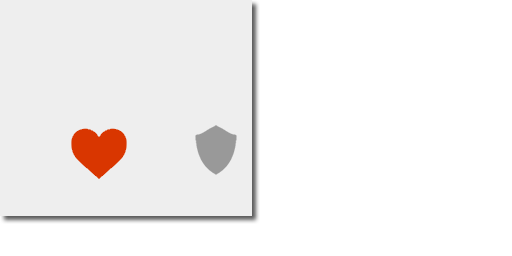
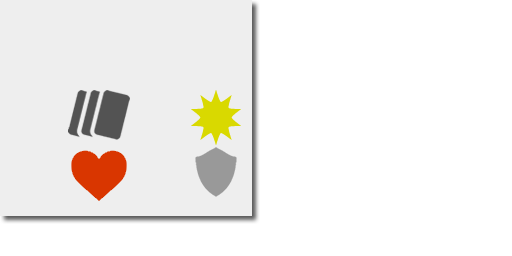
Added deck size and surprise level to player cards

Changed region(s): [[0.125, 0.3438, 0.25, 0.7812], [0.375, 0.3438, 0.4688, 0.7812]]

diff --git a/src/com/benjih/ld32/core/UserInterface.java b/src/com/benjih/ld32/core/UserInterface.java
@@ -105,13 +105,17 @@ public class UserInterface {
 	public void drawScoreCards(Player player, Player enemy) {
 		new Image(0, 199, resources.getTexture("player-card"), 1.0f).render();
 		playerCardNameFont.drawString(15, 219, "Computer", new Color(83, 83, 83));
-		playerCardNameFont.drawString(55, 325, String.valueOf(enemy.getHealth()), new Color(217, 54, 0), TrueTypeFont.ALIGN_RIGHT);
-		playerCardNameFont.drawString(180, 325, String.valueOf(enemy.getArmour()), new Color(153, 153, 153), TrueTypeFont.ALIGN_RIGHT);
+		playerCardNameFont.drawString(55, 284, String.valueOf(enemy.getDeck().size()), new Color(83, 83, 83), TrueTypeFont.ALIGN_RIGHT);
+		playerCardNameFont.drawString(170, 284, String.valueOf(enemy.getSuprise()), new Color(217, 217, 0), TrueTypeFont.ALIGN_CENTER);
+		playerCardNameFont.drawString(55, 345, String.valueOf(enemy.getHealth()), new Color(217, 54, 0), TrueTypeFont.ALIGN_RIGHT);
+		playerCardNameFont.drawString(170, 345, String.valueOf(enemy.getArmour()), new Color(153, 153, 153), TrueTypeFont.ALIGN_CENTER);
 		
 		new Image(0, 648, resources.getTexture("player-card"), 1.0f).render();
 		playerCardNameFont.drawString(15, 668, "You", new Color(83, 83, 83));
-		playerCardNameFont.drawString(55, 775, String.valueOf(player.getHealth()), new Color(217, 54, 54), TrueTypeFont.ALIGN_RIGHT);
-		playerCardNameFont.drawString(180, 775, String.valueOf(player.getArmour()), new Color(153, 153, 153), TrueTypeFont.ALIGN_RIGHT);
+		playerCardNameFont.drawString(55, 733, String.valueOf(player.getDeck().size()), new Color(83, 83, 83), TrueTypeFont.ALIGN_RIGHT);
+		playerCardNameFont.drawString(170, 733, String.valueOf(player.getSuprise()), new Color(217, 217, 0), TrueTypeFont.ALIGN_CENTER);
+		playerCardNameFont.drawString(55, 794, String.valueOf(player.getHealth()), new Color(217, 54, 0), TrueTypeFont.ALIGN_RIGHT);
+		playerCardNameFont.drawString(170, 794, String.valueOf(player.getArmour()), new Color(153, 153, 153), TrueTypeFont.ALIGN_CENTER);
 	}
 
 	public void drawTable() {

diff --git a/src/com/benjih/ld32/core/Player.java b/src/com/benjih/ld32/core/Player.java
@@ -12,11 +12,13 @@ public class Player {
 	private int deathPulseRate;
 	private Deck deck;
 	private Hand hand;
+	private int suprise;
 	
 	public Player (Deck deck) {
 		this.setHealth(30);
 		this.setArmour(0);
 		this.deathPulseRate = 1;
+		this.suprise = 0;
 		this.deck = deck;
 		this.hand = new Hand();
 		
@@ -61,6 +63,9 @@ public class Player {
 				effect.useEffect(this, enemy);
 			}
 		}
+		
+		gainSuprise();
+		
 		return card;
 	}
 	
@@ -91,5 +96,15 @@ public class Player {
 	
 	public Hand getHand () {
 		return hand;
+	}
+
+	public int getSuprise () {
+		return suprise;
+	}
+	
+	public void gainSuprise () {
+		if(suprise < 6) {
+			suprise++;
+		}
 	}
 }
